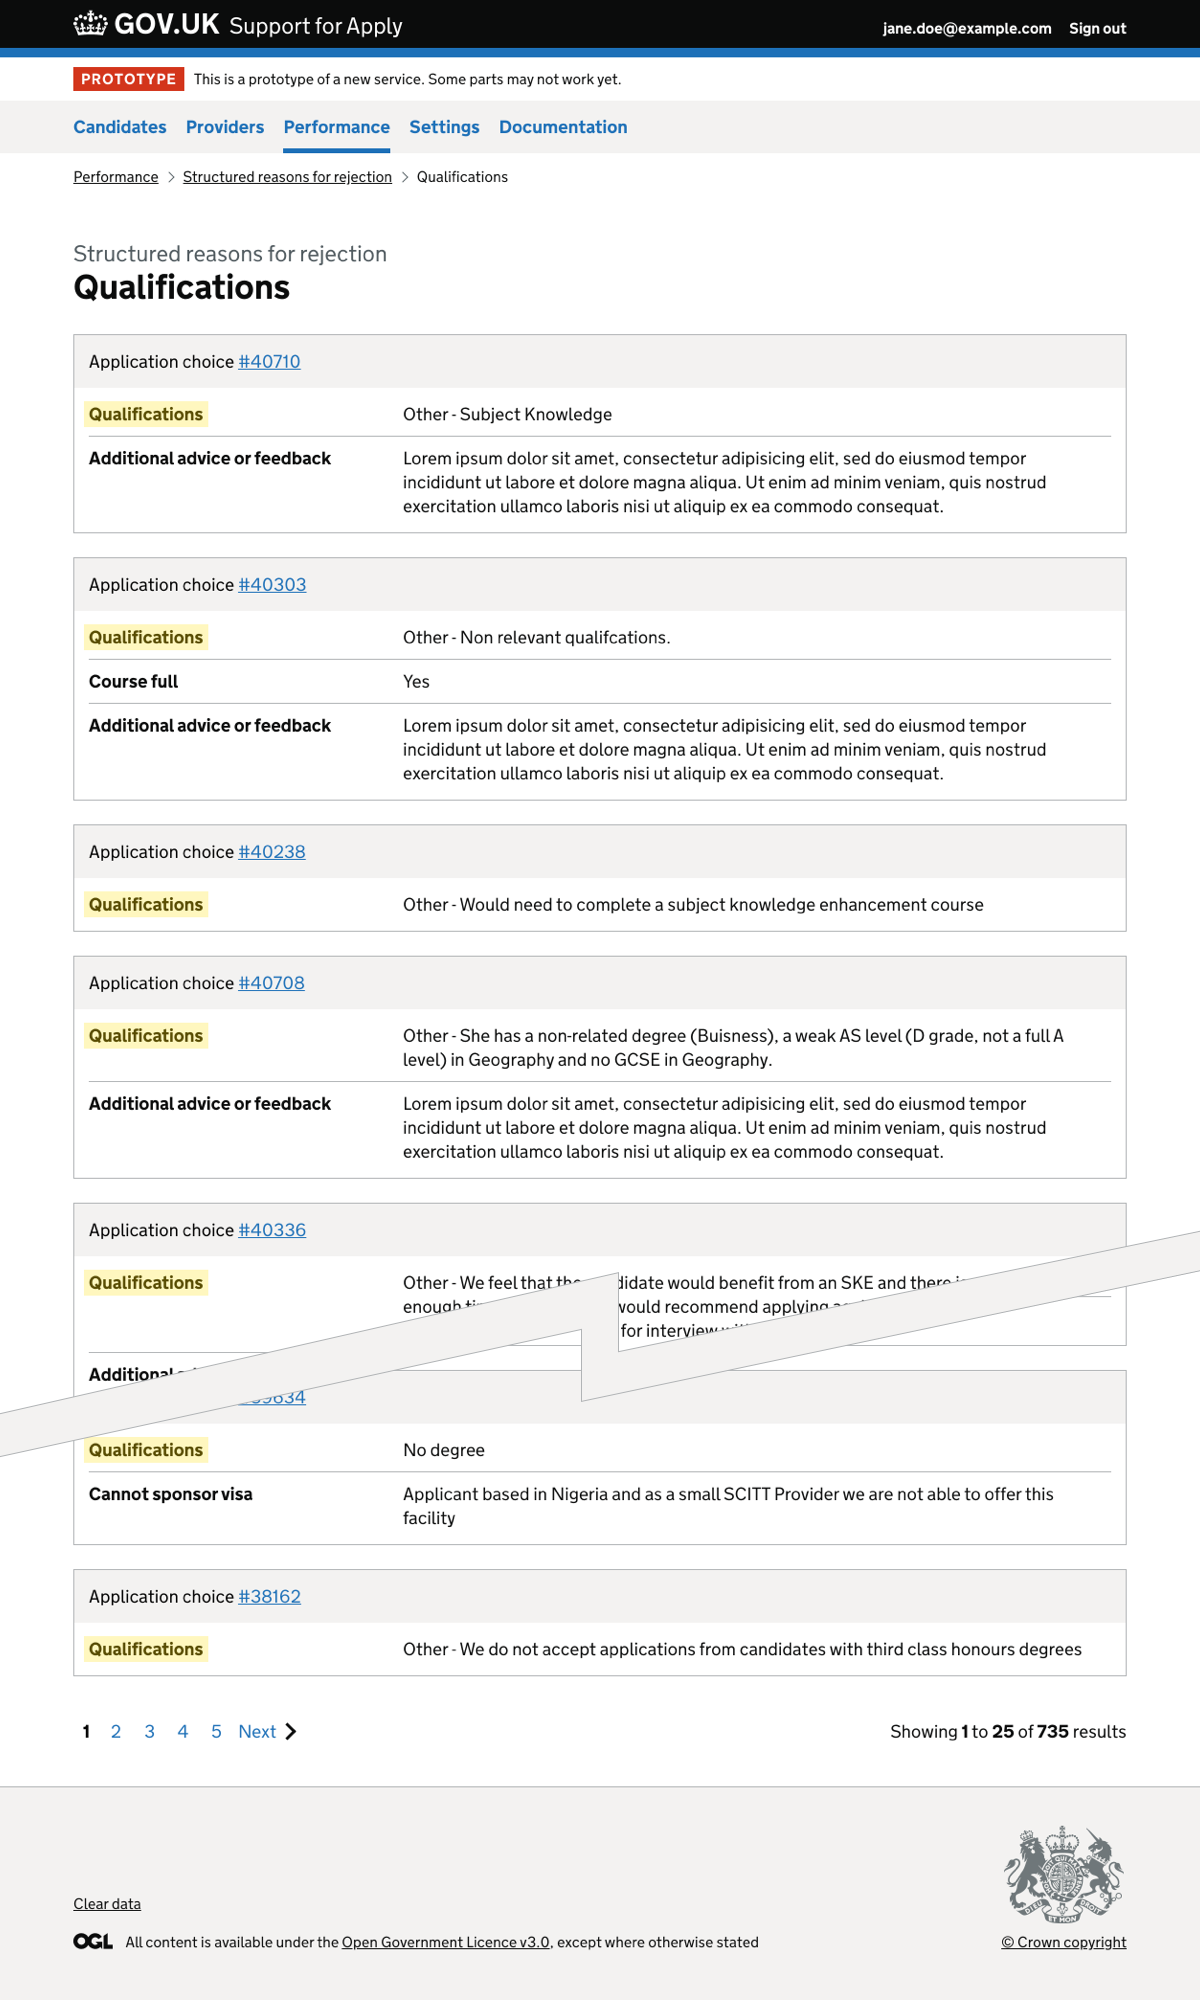
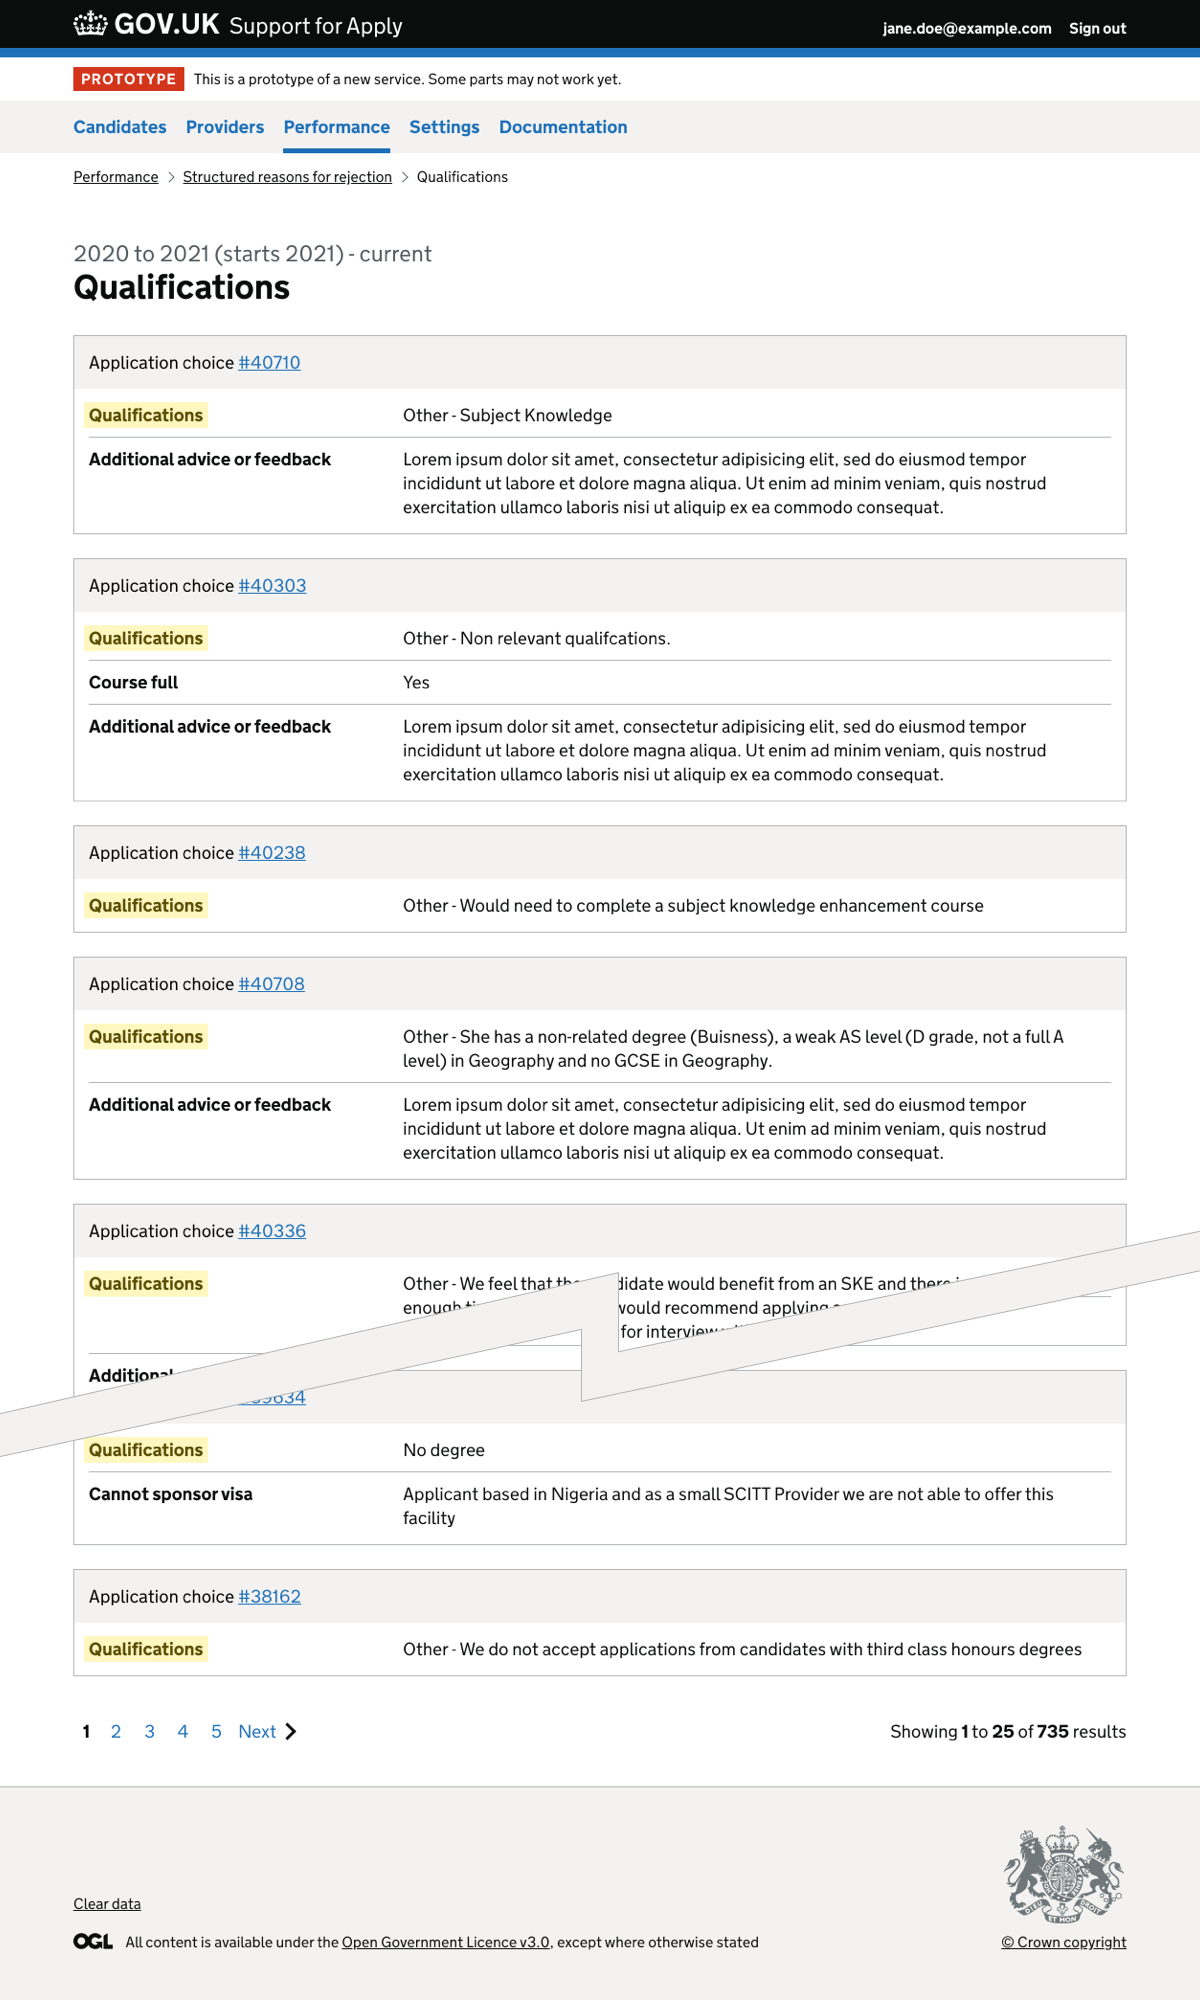
Update content and images

diff --git a/app/posts/support-for-apply/2021-09-27-updating-the-reasons-for-rejection-report.md b/app/posts/support-for-apply/2021-09-27-updating-the-reasons-for-rejection-report.md
@@ -17,8 +17,12 @@ related:
       href: /manage-teacher-training-applications/reasons-for-rejection-iteration-4/
 screenshots:
   items:
-    - text: Structured reasons for rejection report
-      src: structured-reasons-for-rejection-report.png
+    - text: Performance section landing page
+      src: performance-landing-page.png
+    - text: Structured reasons for rejection report showing data for the current cycle
+      src: structured-reasons-for-rejection-report--current-cycle.png
+    - text: Structured reasons for rejection report showing data for the previous cycle
+      src: structured-reasons-for-rejection-report--previous-cycle.png
     - text: Structured reasons for rejection details showing the category
       src: structured-reasons-for-rejection-details--category.png
     - text: Structured reasons for rejection details showing the category and sub-category
@@ -63,6 +67,19 @@ We changed the report to:
 
 We also improved the headings of the pages which give details of the reasons for rejection.
 
+### Current and previous cycles
+
+We added a section to the performance landing page called ‘Structured reasons for rejection’.
+
+We list reports for the current and previous cycles, including:
+
+- 2021 to 2022 (starts 2022) - current
+- 2020 to 2021 (starts 2021)
+
+We mark the current cycle with the word ‘current’.
+
+We added a caption to the page heading on the report and details pages to show which cycle the user has chosen.
+
 ### Categories and sub-categories
 
 Previously, the categories were not displayed in any logical order. We changed the report to show the categories in the same order as they are shown to providers.
@@ -106,6 +123,8 @@ In the new design we have 2 boxes showing:
 
 Instead of saying ‘this month’, we now give the name of the current month. This makes it clearer what time period the glance metrics relate to.
 
+If the report is not for the current cycle, we remove the current month glance metric as it is not relevant. The current month of the current cycle contains only partial data and cannot be directly compared to last year.
+
 ![Summary metrics](summary-metrics.png "Figure 1: Glance metrics for a category")
 
 These changes make it easier for a user to understand:
@@ -138,6 +157,8 @@ We removed the ‘total’ and ‘this month’ columns as the numbers alone do 
 
 We also show how each of these percentages was calculated.
 
+If the report is not for the current cycle, we remove the month columns as they are not relevant. The current month of the current cycle contains only partial data and cannot be directly compared to last year.
+
 ![Table data](table-data.png "Figure 2: Table showing sub-category data")
 
 ### Other changes
@@ -147,10 +168,7 @@ We added a section called ‘understanding this report’ to explain that:
 - the report does not include rejections made through the API, as they’re free text rather than structured
 - the percentages for all the categories will not add up to 100%, since users can choose more than one reason for rejection
 
-We added navigation to the page to allow users to choose between the current and previous cycle’s data. When the new cycle opens on 12 October 2021 the navigation will display two options:
-
-- 2021 to 2022 (starts 2022)
-- 2020 to 2021 (starts 2021)
+We added a caption to the page headings to show which cycle the data in the report is for.
 
 We formatted all numbers and percentages consistently, by using:
 
